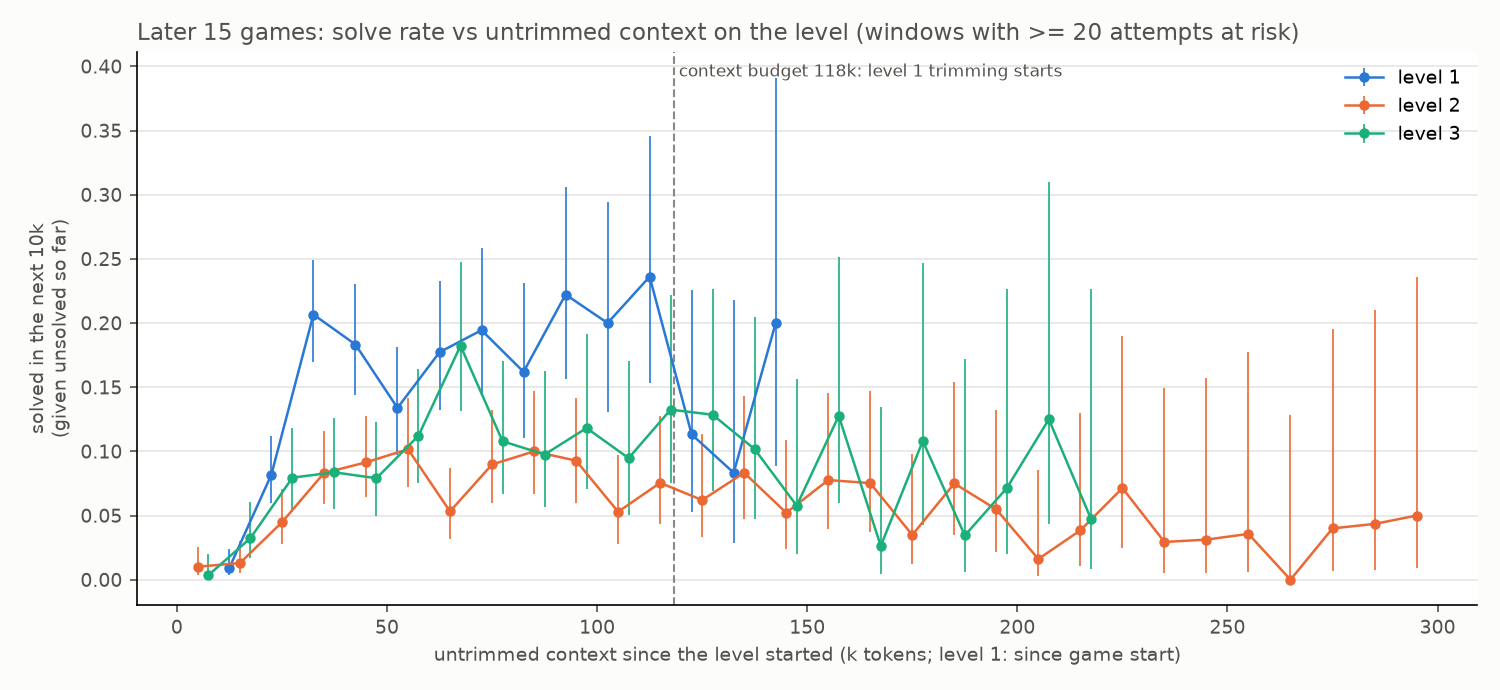
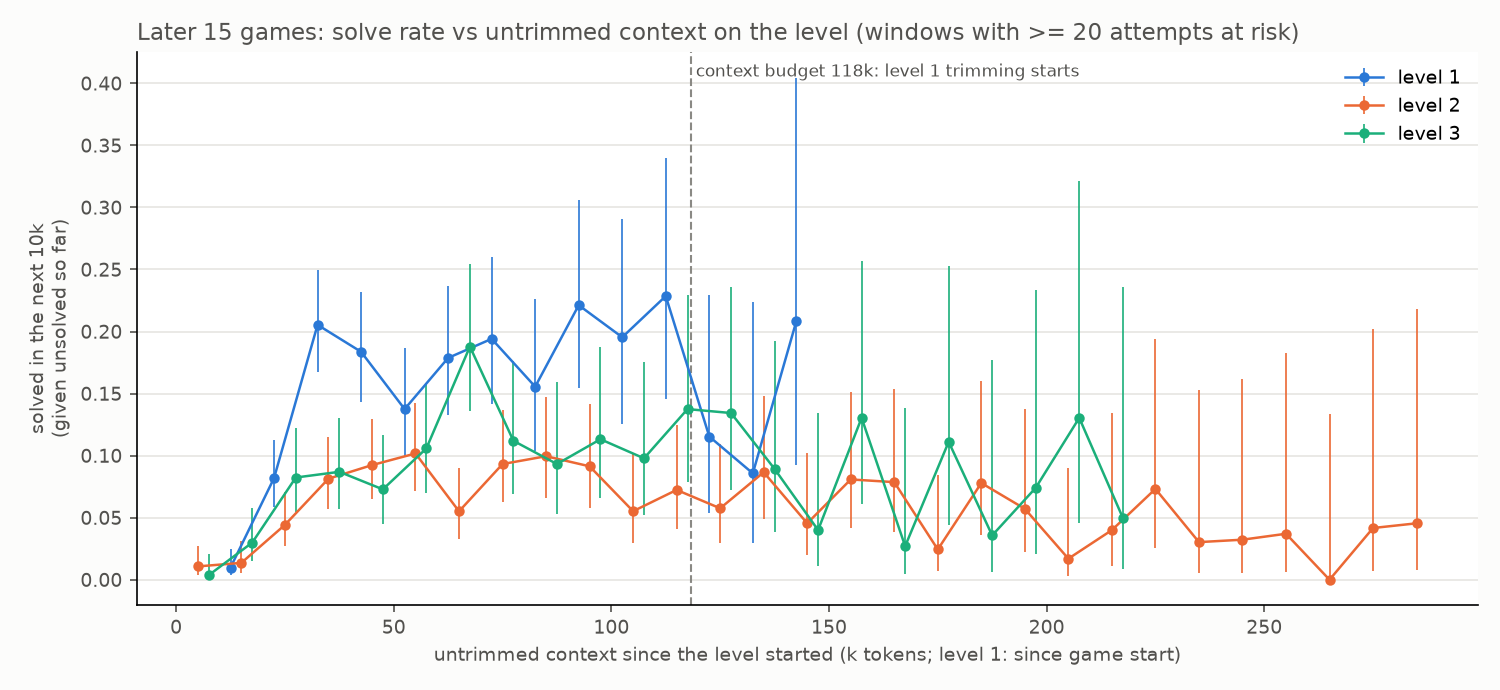
Answer PR #32 review: per-level kept-vs-trimmed columns, levels 1/final in current-context figure, first-10 figure
- levelup-in-context.png: columns per level (2, 3, 2-3) with adjusted ratios
- solve-rate-vs-current-context.png: levels 1, 2, 3 and final level, with a
  quadratic peak test
- solve-rate-vs-context-first10.png: figure b for the first 10 games
- exclude context-transition-reminders and view-tool runs (new, change context/tools)

diff --git a/docs/harness/scripts/solve_rate_vs_context.py b/docs/harness/scripts/solve_rate_vs_context.py
@@ -31,16 +31,23 @@ import statsmodels.formula.api as smf
 from scipy.stats import chi2
 
 RUNS_DIR = os.environ.get("RUNS_DIR", "ARC3-Inference/runs/kaggle")
-OUT = sys.argv[1] if len(sys.argv) > 1 else "docs/harness/images/solve-rate-vs-context.png"
+GAME_SET = os.environ.get("GAME_SET", "later15")  # later15 (harder) or first10
+OUT = sys.argv[1] if len(sys.argv) > 1 else (
+    "docs/harness/images/solve-rate-vs-context" + ("-first10" if GAME_SET == "first10" else "") + ".png")
 OUT_CURRENT = os.path.join(os.path.dirname(OUT), "solve-rate-vs-current-context.png")
 LATER15 = set("bp35 cd82 cn04 dc22 g50t ka59 lf52 ls20 m0r0 s5i5 sk48 sp80 su15 tn36 wa30".split())
+FIRST10 = set("ar25 ft09 lp85 r11l re86 sb26 sc25 tr87 tu93 vc33".split())
+GAMES, SET_LABEL = (FIRST10, "First 10 games") if GAME_SET == "first10" else (LATER15, "Later 15 games")
 BUDGET = 118272
 KEEP = ("[USER PROMPT]", "[THINKING]", "[ASSISTANT]", "[TOOL CALL", "[TOOL RESULT")
 HEADER = re.compile(r"^--- analysis_step=(\d+) \| action=(\d+) \|", re.M)
 WINDOW = 10_000
 TRIM_AT, TRIM_TO = 118_000, 58_000  # fitted; = budget and budget - 58*1024 drain
 MIN_AT_RISK = 20
-COLORS = {1: "#2a78d6", 2: "#eb6834", 3: "#1baf7a"}
+COLORS = {1: "#2a78d6", 2: "#eb6834", 3: "#1baf7a", "final": "#eda100"}
+N_LEVELS = dict(bp35=9, cd82=6, cn04=6, dc22=6, g50t=7, ka59=7, lf52=10, ls20=7, m0r0=6, s5i5=8, sk48=8,
+                sp80=6, su15=9, tn36=7, wa30=9,
+                ar25=8, ft09=6, lp85=8, r11l=6, re86=8, sb26=8, sc25=6, tr87=6, tu93=9, vc33=7)
 INK, MUTED = "#52514e", "#8a8984"
 
 
@@ -83,6 +90,9 @@ def daniel_base(run_dir):
     intermediate-frame images. Drops main's harness runs and the bp35-lordhansolo
     series."""
     if "/bp35-lordhansolo/" in run_dir + "/":
+        return False
+    # harness changes on top of Daniel's base that alter context or tools
+    if any(f"/{name}/" in run_dir + "/" for name in ("context-transition-reminders", "view-tool")):
         return False
     head = ""
     for path in glob.glob(f"{run_dir}/transcripts/*.txt")[:1]:
@@ -149,7 +159,7 @@ def attempts(coef):
             stem = os.path.basename(transcript)[:-4]
             game = stem.split("-")[0]
             events = f"{run_dir}/artifacts/{stem}_events.jsonl"
-            if game not in LATER15 or not os.path.exists(events):
+            if game not in GAMES or not os.path.exists(events):
                 continue
             steps = transcript_steps(transcript)
             if not steps:
@@ -196,7 +206,7 @@ def turns(coef, real=False):
             game = stem.split("-")[0]
             events = f"{run_dir}/artifacts/{stem}_events.jsonl"
             requests = f"{run_dir}/{stem}_requests.jsonl"
-            if game not in LATER15 or not os.path.exists(events) or (real and not os.path.exists(requests)):
+            if game not in GAMES or not os.path.exists(events) or (real and not os.path.exists(requests)):
                 continue
             steps = transcript_steps(transcript)
             if len(steps) < 2:
@@ -223,7 +233,8 @@ def turns(coef, real=False):
             level = 1
             for k in range(len(steps)):
                 up = k in solve_turn
-                rows.append(dict(attempt=f"{run_dir}|{game}", game=game, level=level, current=current[k],
+                rows.append(dict(attempt=f"{run_dir}|{game}", game=game, level=level, final=level == N_LEVELS[game],
+                                 current=current[k],
                                  added=ends[k] - starts[k], up=int(up), trimmed=bool(trimmed[k])))
                 if up:
                     level = solve_turn[k] + 1
@@ -252,6 +263,15 @@ def current_context_trend(d):
                                                        cov_kwds={"groups": pd.factorize(d.attempt)[0]})
     lo, hi = np.exp(fit.conf_int().loc["x"])
     return np.exp(fit.params.x), lo, hi, fit.pvalues.x, len(d), int(d.up.sum())
+
+
+def current_context_curvature(d):
+    """p-value of a quadratic term: an interior optimum needs it negative."""
+    d = d[d.added > 0].assign(x=lambda t: t.current / WINDOW - 8.5)
+    fit = smf.glm("up ~ x + I(x ** 2) + C(game) + C(level)", d, family=sm.families.Poisson(),
+                  offset=np.log(d.added / WINDOW)).fit(cov_type="cluster",
+                                                       cov_kwds={"groups": pd.factorize(d.attempt)[0]})
+    return fit.pvalues["I(x ** 2)"]
 
 
 def hazard(d, upto=400_000):
@@ -292,9 +312,11 @@ def main():
         x = (t.lo + WINDOW / 2) / 1000 + shift
         ax.errorbar(x, t.rate, yerr=[t.rate - ci[:, 0], ci[:, 1] - t.rate], fmt="o-", color=COLORS[level],
                     markersize=4, linewidth=1.2, elinewidth=0.8, label=f"level {level}")
-    ax.axvline(BUDGET / 1000, color=MUTED, linestyle="--", linewidth=1)
-    ax.text(BUDGET / 1000, 0.98, f" context budget {BUDGET / 1000:.0f}k: level 1 trimming starts", color=INK, fontsize=8,
-            va="top", transform=ax.get_xaxis_transform())
+    if GAME_SET != "first10":  # the first 10 games finish their levels long before 118k
+        ax.axvline(BUDGET / 1000, color=MUTED, linestyle="--", linewidth=1)
+        ax.text(BUDGET / 1000, 0.98, f" context budget {BUDGET / 1000:.0f}k: level 1 trimming starts", color=INK,
+                fontsize=8, va="top", transform=ax.get_xaxis_transform())
+    ax.set_ylim(bottom=0)
     for side in ("top", "right"):
         ax.spines[side].set_visible(False)
     ax.grid(axis="y", color="#e6e5e1", linewidth=0.8)
@@ -303,7 +325,7 @@ def main():
     ax.set_xlabel("untrimmed context since the level started (k tokens; level 1: since game start)", color=INK, fontsize=9)
     ax.set_ylabel("solved in the next 10k\n(given unsolved so far)", color=INK, fontsize=9)
     ax.legend(frameon=False, fontsize=9, loc="upper right")
-    ax.set_title(f"Later 15 games: solve rate vs untrimmed context on the level (windows with >= {MIN_AT_RISK} attempts at risk)",
+    ax.set_title(f"{SET_LABEL}: solve rate vs untrimmed context on the level (windows with >= {MIN_AT_RISK} attempts at risk)",
                  color=INK, fontsize=11, loc="left")
     fig.tight_layout()
     os.makedirs(os.path.dirname(OUT), exist_ok=True)
@@ -312,7 +334,8 @@ def main():
         t = hazard(df[df.level == level])
         t = t[t.at_risk >= MIN_AT_RISK]
         print(f"level {level}: " + " ".join(f"{lo // 1000}k:{r:.2f}({n})" for lo, r, n in zip(t.lo, t.rate, t.at_risk)))
-    plot_current(coef)
+    if GAME_SET != "first10":
+        plot_current(coef)
 
 
 def plot_current(coef):
@@ -320,21 +343,27 @@ def plot_current(coef):
     game's first trim so x is the sawtooth rather than time on the level."""
     sim = turns(coef)
     real = turns(coef, real=True)
-    fig, ax = plt.subplots(figsize=(10, 4.6))
-    for level, shift in ((2, -1.5), (3, 1.5)):
-        d = sim[(sim.level == level) & sim.trimmed]
+    series = [("level 1", lambda d: d.level == 1, COLORS[1], -2.4), ("level 2", lambda d: d.level == 2, COLORS[2], -0.8),
+              ("level 3", lambda d: d.level == 3, COLORS[3], 0.8), ("final level", lambda d: d.final, COLORS["final"], 2.4)]
+    fig, ax = plt.subplots(figsize=(10, 4.8))
+    for label, pick, color, shift in series:
+        d = sim[pick(sim) & sim.trimmed]
         t = rate_by_current(d)
         t = t[t.exposure >= 20]
         x = (t.lo + WINDOW / 2) / 1000 + shift
-        ax.errorbar(x, t.rate, yerr=[t.rate - t.ci_lo, t.ci_hi - t.rate], fmt="o-", color=COLORS[level],
-                    markersize=4, linewidth=1.2, elinewidth=0.8, label=f"level {level}")
-        print(f"level {level} by current context: " + " ".join(
+        ax.errorbar(x, t.rate, yerr=[t.rate - t.ci_lo, t.ci_hi - t.rate], fmt="o-", color=color,
+                    markersize=4, linewidth=1.2, elinewidth=0.8, label=label)
+        print(f"{label} by current context: " + " ".join(
             f"{a // 1000}k:{r:.3f}({e}/{x_:.0f})" for a, r, e, x_ in zip(t.lo, t.rate, t.events, t.exposure)))
-    for name, d in (("simulated, 30 runs", sim), ("real prompt_tokens, request-log runs", real)):
-        d = d[d.level.isin([2, 3]) & d.trimmed]
-        rr, lo, hi, p, n, k = current_context_trend(d)
-        print(f"levels 2-3 after first trim, {name}: rate ratio per +10k current context {rr:.3f} "
-              f"(95% CI {lo:.3f}-{hi:.3f}, p={p:.2g}); turns {n}, level-ups {k}")
+        for name, src in (("simulated", sim), ("real", real)):
+            dd = src[pick(src) & src.trimmed]
+            if dd.up.sum() < 10:
+                print(f"  {label}, {name}: {int(dd.up.sum())} level-ups, too few")
+                continue
+            rr, lo, hi, p, n, k = current_context_trend(dd)
+            q = current_context_curvature(dd)
+            print(f"  {label}, {name}: rate ratio per +10k {rr:.3f} (95% CI {lo:.3f}-{hi:.3f}, p={p:.2g}); "
+                  f"quadratic term p={q:.2g}; turns {n}, level-ups {k}")
     for side in ("top", "right"):
         ax.spines[side].set_visible(False)
     ax.grid(axis="y", color="#e6e5e1", linewidth=0.8)
@@ -345,7 +374,7 @@ def plot_current(coef):
     ax.set_ylabel("level-ups per 10k\nof added context", color=INK, fontsize=9)
     ax.set_ylim(bottom=0)
     ax.legend(frameon=False, fontsize=9, loc="upper right")
-    ax.set_title("Later 15 games: levels 2-3 vs current context (windows with >= 20 x 10k added)",
+    ax.set_title(f"{SET_LABEL}: level-up rate vs current context (windows with >= 20 x 10k added)",
                  color=INK, fontsize=11, loc="left")
     fig.tight_layout()
     fig.savefig(OUT_CURRENT, dpi=150, facecolor="#fcfcfb")

diff --git a/docs/harness/scripts/levelup_in_context.py b/docs/harness/scripts/levelup_in_context.py
@@ -69,32 +69,47 @@ def build(real):
 OUT = os.path.join(os.path.dirname(os.path.abspath(__file__)), "..", "images", "levelup-in-context.png")
 
 
-def plot(d, fit_text):
-    bands = [(40, 60), (60, 80), (80, 100), (40, 100)]
-    fig, ax = plt.subplots(figsize=(9, 4.2))
-    ax.axvline(len(bands) - 1.5, color=m.MUTED, linewidth=0.8)
-    for i, (lo, hi) in enumerate(bands):
-        w = d[(d.since >= lo * 1000) & (d.since < hi * 1000)]
-        for kept, color, dx, label in ((1, m.COLORS[1], -0.12, "last level-up kept"), (0, m.COLORS[2], 0.12, "trimmed away")):
-            x = w[w.kept == kept]
+def adjusted(d):
+    """Kept vs trimmed rate ratio within the same 20k band, game and level."""
+    fit = smf.glm("up ~ kept + C(band) + C(game) + C(level)", d, family=sm.families.Poisson(),
+                  offset=np.log(d.added / 1e4)).fit(cov_type="cluster", cov_kwds={"groups": pd.factorize(d.attempt)[0]})
+    lo, hi = np.exp(fit.conf_int().loc["kept"])
+    return np.exp(fit.params.kept), lo, hi, fit.pvalues.kept
+
+
+def plot(d):
+    """Columns per level: level-ups per 10k added context (~ chance of leveling
+    up in the next 10k) with the last level-up kept vs trimmed away, over the
+    40-100k since the level-up where both cases occur."""
+    d = d[(d.since >= 40_000) & (d.since < 100_000)]
+    groups = [("Level 2", d[d.level == 2]), ("Level 3", d[d.level == 3]), ("Levels 2-3", d)]
+    ticks = []
+    fig, ax = plt.subplots(figsize=(8, 4.4))
+    width = 0.36
+    for i, (name, g) in enumerate(groups):
+        for kept, color, dx, label in ((1, m.COLORS[1], -width / 2, "last level-up kept"),
+                                       (0, m.COLORS[2], width / 2, "last level-up trimmed away")):
+            x = g[g.kept == kept]
             exp, k = x.added.sum() / 1e4, int(x.up.sum())
             r = k / exp
             ci = (chi2.ppf(0.025, 2 * k) / 2 / exp if k else 0.0, chi2.ppf(0.975, 2 * k + 2) / 2 / exp)
-            ax.errorbar(i + dx, r, yerr=[[r - ci[0]], [ci[1] - r]], fmt="o", color=color, markersize=7,
-                        linewidth=1.5, label=label if i == 0 else None)
-            ax.text(i + dx + 0.04, r, f"{k}/{exp:.0f}", color=m.INK, fontsize=8, va="center")
-    ax.set_xticks(range(len(bands)), [f"{lo}-{hi}k" for lo, hi in bands[:-1]] + ["combined 40-100k\n(raw, not band-adjusted)"])
-    ax.set_xlim(-0.5, len(bands) - 0.5)
+            ax.bar(i + dx, r, width=width * 0.92, color=color, label=label if i == 0 else None)
+            ax.errorbar(i + dx, r, yerr=[[r - ci[0]], [ci[1] - r]], fmt="none", ecolor=m.INK, elinewidth=1)
+            ax.text(i + dx, ci[1] + 0.004, f"{k} ups", color=m.INK, fontsize=8, ha="center")
+        rr, lo, hi, p = adjusted(g)
+        print(f"{name}, 40-100k: kept vs trimmed {rr:.2f} (95% CI {lo:.2f}-{hi:.2f}, p={p:.2g}); level-ups {int(g.up.sum())}")
+        ticks.append(f"{name}\nkept/trimmed {rr:.2f}x\n95% CI {lo:.2f}-{hi:.2f}, p={p:.2f}")
+    ax.set_xticks(range(len(groups)), ticks)
     ax.set_ylim(bottom=0)
     for side in ("top", "right"):
         ax.spines[side].set_visible(False)
     ax.grid(axis="y", color="#e6e5e1", linewidth=0.8)
     ax.set_axisbelow(True)
     ax.tick_params(colors=m.INK, labelsize=9)
-    ax.set_xlabel("untrimmed context since the level-up (labels: level-ups / 10k added)", color=m.INK, fontsize=9)
-    ax.set_ylabel("level-ups per 10k\nof added context", color=m.INK, fontsize=9)
-    ax.legend(frameon=False, fontsize=9, loc="upper right")
-    ax.set_title(f"Levels 2-3, 30 runs (simulated trimming): {fit_text}", color=m.INK, fontsize=10, loc="left")
+    ax.set_ylabel("level-ups per 10k of added context\n(chance of leveling up in the next 10k)", color=m.INK, fontsize=9)
+    ax.legend(frameon=False, fontsize=9, loc="upper left")
+    ax.set_title("Later 15 games, 30 runs: last level-up kept vs trimmed away (40-100k since the level-up)",
+                 color=m.INK, fontsize=10, loc="left")
     fig.tight_layout()
     fig.savefig(OUT, dpi=150, facecolor="#fcfcfb")
 
@@ -108,11 +123,9 @@ for name, real in (("simulated, 30 runs", False), ("real prompt_tokens, request-
     g["per10k"] = g.ups / g.exp
     print(g.round(3).to_string())
     overlap = d[d.groupby("band").kept.transform("nunique") == 2]
-    fit = smf.glm("up ~ kept + C(band) + C(game) + C(level)", overlap, family=sm.families.Poisson(),
-                  offset=np.log(overlap.added / 1e4)).fit(cov_type="cluster", cov_kwds={"groups": pd.factorize(overlap.attempt)[0]})
-    lo, hi = np.exp(fit.conf_int().loc["kept"])
-    print(f"rate ratio, level-up still in context vs trimmed away (same band of tokens since level-up, game, level): "
-          f"{np.exp(fit.params.kept):.2f} (95% CI {lo:.2f}-{hi:.2f}, p={fit.pvalues.kept:.2g}); "
-          f"overlap turns {len(overlap)}, level-ups {overlap.up.sum()}")
+    for label, sub in (("levels 2-3", overlap), ("level 2", overlap[overlap.level == 2]), ("level 3", overlap[overlap.level == 3])):
+        rr, lo, hi, p = adjusted(sub)
+        print(f"{label}: rate ratio, level-up still in context vs trimmed away (same band, game, level): "
+              f"{rr:.2f} (95% CI {lo:.2f}-{hi:.2f}, p={p:.2g}); turns {len(sub)}, level-ups {sub.up.sum()}")
     if not real:
-        plot(d, f"kept vs trimmed {np.exp(fit.params.kept):.2f}x (95% CI {lo:.2f}-{hi:.2f})")
+        plot(d)

diff --git a/docs/harness/solve-rate-vs-context.md b/docs/harness/solve-rate-vs-context.md
@@ -10,47 +10,63 @@ The level-1 dip: of attempts unsolved at 90k, 55/112 (49%) solved before 118k; o
 
 Before trimming, level 1 gets easier as context grows. From 30k to 118k, within the same game, the odds of solving in the next 10k rise 1.24x per +10k of untrimmed context (95% CI 1.12-1.36, p = 2e-5, errors clustered by attempt). Pooled across games the trend is flat (0.99, CI 0.92-1.08), because the mix shifts toward hard games as context grows. Together with the dip after the line, this points to retained context helping on level 1. A direct test would be an A/B run with a larger context budget on the hard games, or with the first trim delayed.
 
-## Levels 2-3 vs current context
+## Level-up rate vs current context
 
-The figure above cannot show trimming for levels 2 and 3, because each attempt starts at a different point of the context sawtooth. This one uses the current (trimmed) context instead, which cycles between about 58k and 118k, and keeps only turns after the game's first trim.
+The figure above cannot show trimming for levels after 1, because each attempt starts at a different point of the context sawtooth. This one uses the current (trimmed) context instead, which cycles between about 58k and 118k, and keeps only turns after the game's first trim. It shows levels 1-3 and each game's final level.
 
-![Levels 2-3 vs current context](images/solve-rate-vs-current-context.png)
+![Level-up rate vs current context](images/solve-rate-vs-current-context.png)
 
-**No trend with current context.**
-- Level 2 stays at about 0.06-0.08 level-ups per 10k of added context across 50-110k, with the two highest windows slightly lower (0.060, 0.051).
+**No optimal range within 50-118k for levels 1-3.** Within game and level, per +10k of current context (Poisson, the quadratic term tests for a peak):
+
+| Series | Rate ratio per +10k | 95% CI | Peak (quadratic) p | Level-ups |
+|---|---:|---:|---:|---:|
+| Level 1 | 0.96 | 0.76-1.22 | 0.51 | 24 |
+| Level 2 | 0.96 | 0.88-1.05 | 0.51 | 167 |
+| Level 3 | 0.98 | 0.91-1.06 | 0.27 | 199 |
+| Final level | 1.09 | 0.89-1.34 | 0.074 | 26 |
+
+- Level 2 stays at 0.05-0.08 per 10k across the range, slightly lower above 100k.
 - Level 3 moves between 0.06 and 0.12 with no direction.
-- Within game and level, the rate changes by a factor of 0.97 per +10k of current context (95% CI 0.92-1.03, p = 0.33; 10,899 turns, 384 level-ups).
-- On the runs that log real prompt sizes, the factor is 1.13 (CI 0.97-1.30, p = 0.11; 1,690 turns, 73 level-ups).
+- Level 1 has few attempts left after the first trim (24 level-ups), so its intervals are wide.
+- The final level is the only curve with a hump: 0.04-0.08 at 50-70k, 0.09-0.13 at 75-90k, 0.05-0.06 above 100k. The peak test is p = 0.074 on 26 level-ups, so it is a hint, not a finding.
+- On real prompt sizes (request-log runs), level 3 rises 1.26x per +10k (CI 1.02-1.55, p = 0.034, 34 level-ups) and level 2 is 1.05x (CI 0.79-1.41). Levels 1 and final have too few level-ups there.
 
-The current context is simulated for most runs, so it is noisy. That noise pulls any real trend toward flat. On real prompt sizes the hint is toward more context helping, the same direction as level 1, but it is not significant.
+The current context is simulated for most runs, so it is noisy, and that noise pulls any real trend toward flat.
 
 How it is measured:
 - **x:** the current context at the start of each turn. Only the request-log runs record it, so for the 30 runs it is simulated from the untrimmed estimate: it grows with each turn, and once it passes 118k it drops to 58k. Those values were fitted against server `prompt_tokens`: median error 3k tokens, but correlation only 0.60 inside the 50-118k band, because each trim lands a little differently and the phase drifts.
 - **y:** level-ups per 10k of context added while in that window. The bars are exact Poisson 95% intervals.
-- **Test:** a Poisson model with game and level fixed effects, offset by added context, errors clustered by game run.
+- **Test:** a Poisson model with game and level fixed effects, offset by added context, errors clustered by game run; a second fit adds a quadratic term.
 
 ## Does keeping the last level-up in context help?
 
 For levels 2 and 3, each turn is marked by whether the turn that completed the previous level is still in the trimmed context. After a trim, the context keeps roughly the newest (current - base) tokens, so the level-up is kept if the untrimmed context added since it fits in that.
 
-At the same tokens since the level-up, some attempts have already lost it to a trim and others have not, depending on where in the sawtooth the level began. The comparison uses only 20k bands where both cases occur, with game and level fixed effects, offset by added context, errors clustered by game run.
+At the same tokens since the level-up, some attempts have already lost it to a trim and others have not, depending on where in the sawtooth the level began. The columns cover 40-100k since the level-up, where both cases occur. The adjusted ratios compare within the same 20k band, game and level, offset by added context, errors clustered by game run.
 
 ![Last level-up kept vs trimmed away](images/levelup-in-context.png)
 
-| Data | Level-up rate, kept vs trimmed away | 95% CI | p | Level-ups |
+| Level | Kept vs trimmed away (adjusted) | 95% CI | p | Level-ups |
 |---|---:|---:|---:|---:|
-| Simulated trimming, 30 runs | 1.07 | 0.78-1.45 | 0.68 | 300 |
-| Real prompt sizes, request-log runs | 0.50 | 0.19-1.30 | 0.16 | 58 |
+| Level 2 | 0.93 | 0.56-1.54 | 0.77 | 132 |
+| Level 3 | 1.53 | 0.91-2.58 | 0.11 | 101 |
+| Levels 2-3 | 1.11 | 0.80-1.55 | 0.54 | 233 |
 
-Combined over 40-100k, the raw rates are 0.109 per 10k with the level-up kept (175 level-ups) vs 0.099 trimmed away (67), about 1.10x before adjusting for band.
+**No significant effect.** Level 2 shows no difference. Level 3 leans toward keeping the level-up helping, at 1.53x, but the interval includes 1. On the request-log runs with real prompt sizes, levels 2-3 come out at 0.48x (CI 0.15-1.53, 46 level-ups), the other way. Simulated trims mislabel some turns, which pulls the estimate toward 1. An A/B run of `context.retain_last_level_up` (PR #31) would settle it. Script: [`scripts/levelup_in_context.py`](scripts/levelup_in_context.py).
 
-**No detectable effect.** The larger simulated sample centres on no difference, the small real-data sample leans the other way, and the bands disagree in direction (simulated, per 10k added: 60-80k kept 0.116 vs trimmed 0.088; 80-100k kept 0.070 vs trimmed 0.105). Simulated trims mislabel some turns, which pulls the estimate toward 1. An A/B run of `context.retain_last_level_up` (PR #31) would settle it. Script: [`scripts/levelup_in_context.py`](scripts/levelup_in_context.py).
+## First 10 games
+
+The same figure for the 10 easier games (20 Daniel-harness runs that include them, 194 game runs):
+
+![First 10 games: solve rate vs untrimmed context](images/solve-rate-vs-context-first10.png)
+
+These games rarely meet trimming. Levels 1-3 are solved in 192/194, 191/192 and 188/191 attempts, at a median of 20-27k tokens into the level, far below the 118k budget. The solve rate peaks at 40-47% per 10k by 20-45k, against 15-25% for level 1 of the later 15. So any context effect is a later-15 question.
 
 ## Data
 
 - **Games:** the later 15 public games (bp35 cd82 cn04 dc22 g50t ka59 lf52 ls20 m0r0 s5i5 sk48 sp80 su15 tn36 wa30). The 10-game runs used the other 10.
 - **Runs:** every run in `ARC3-Inference/runs/kaggle` on Daniel's harness: 118,272-token budget, 3,072-token tool output, no sampled-animation or intermediate-frame images. That is 30 runs and 320 game runs. Short runs and the early-level-recovery arms are included; a run that ends mid-level counts that level as unsolved at that point.
-- **Excluded:** main's harness runs (1,024-token tool output, sampled animations or intermediate frames), the `bp35-lordhansolo` series, and runs with other budgets.
+- **Excluded:** the `context-transition-reminders` and `view-tool` runs (they change context or tools), main's harness runs (1,024-token tool output, sampled animations or intermediate frames), the `bp35-lordhansolo` series, and runs with other budgets.
 - **Sample size:** level 1 has 407 attempts (373 solved), level 2 has 373 (273 solved), level 3 has 273 (215 solved).
 
 ## Method
@@ -75,6 +91,7 @@ From the repo root:
 
 ```bash
 RUNS_DIR=<main checkout>/ARC3-Inference/runs/kaggle python3 docs/harness/scripts/solve_rate_vs_context.py
+RUNS_DIR=<main checkout>/ARC3-Inference/runs/kaggle GAME_SET=first10 python3 docs/harness/scripts/solve_rate_vs_context.py
 ```
 
 [`scripts/solve_rate_vs_context.py`](scripts/solve_rate_vs_context.py) writes both figures and prints the calibration, the run list and the per-window counts.
